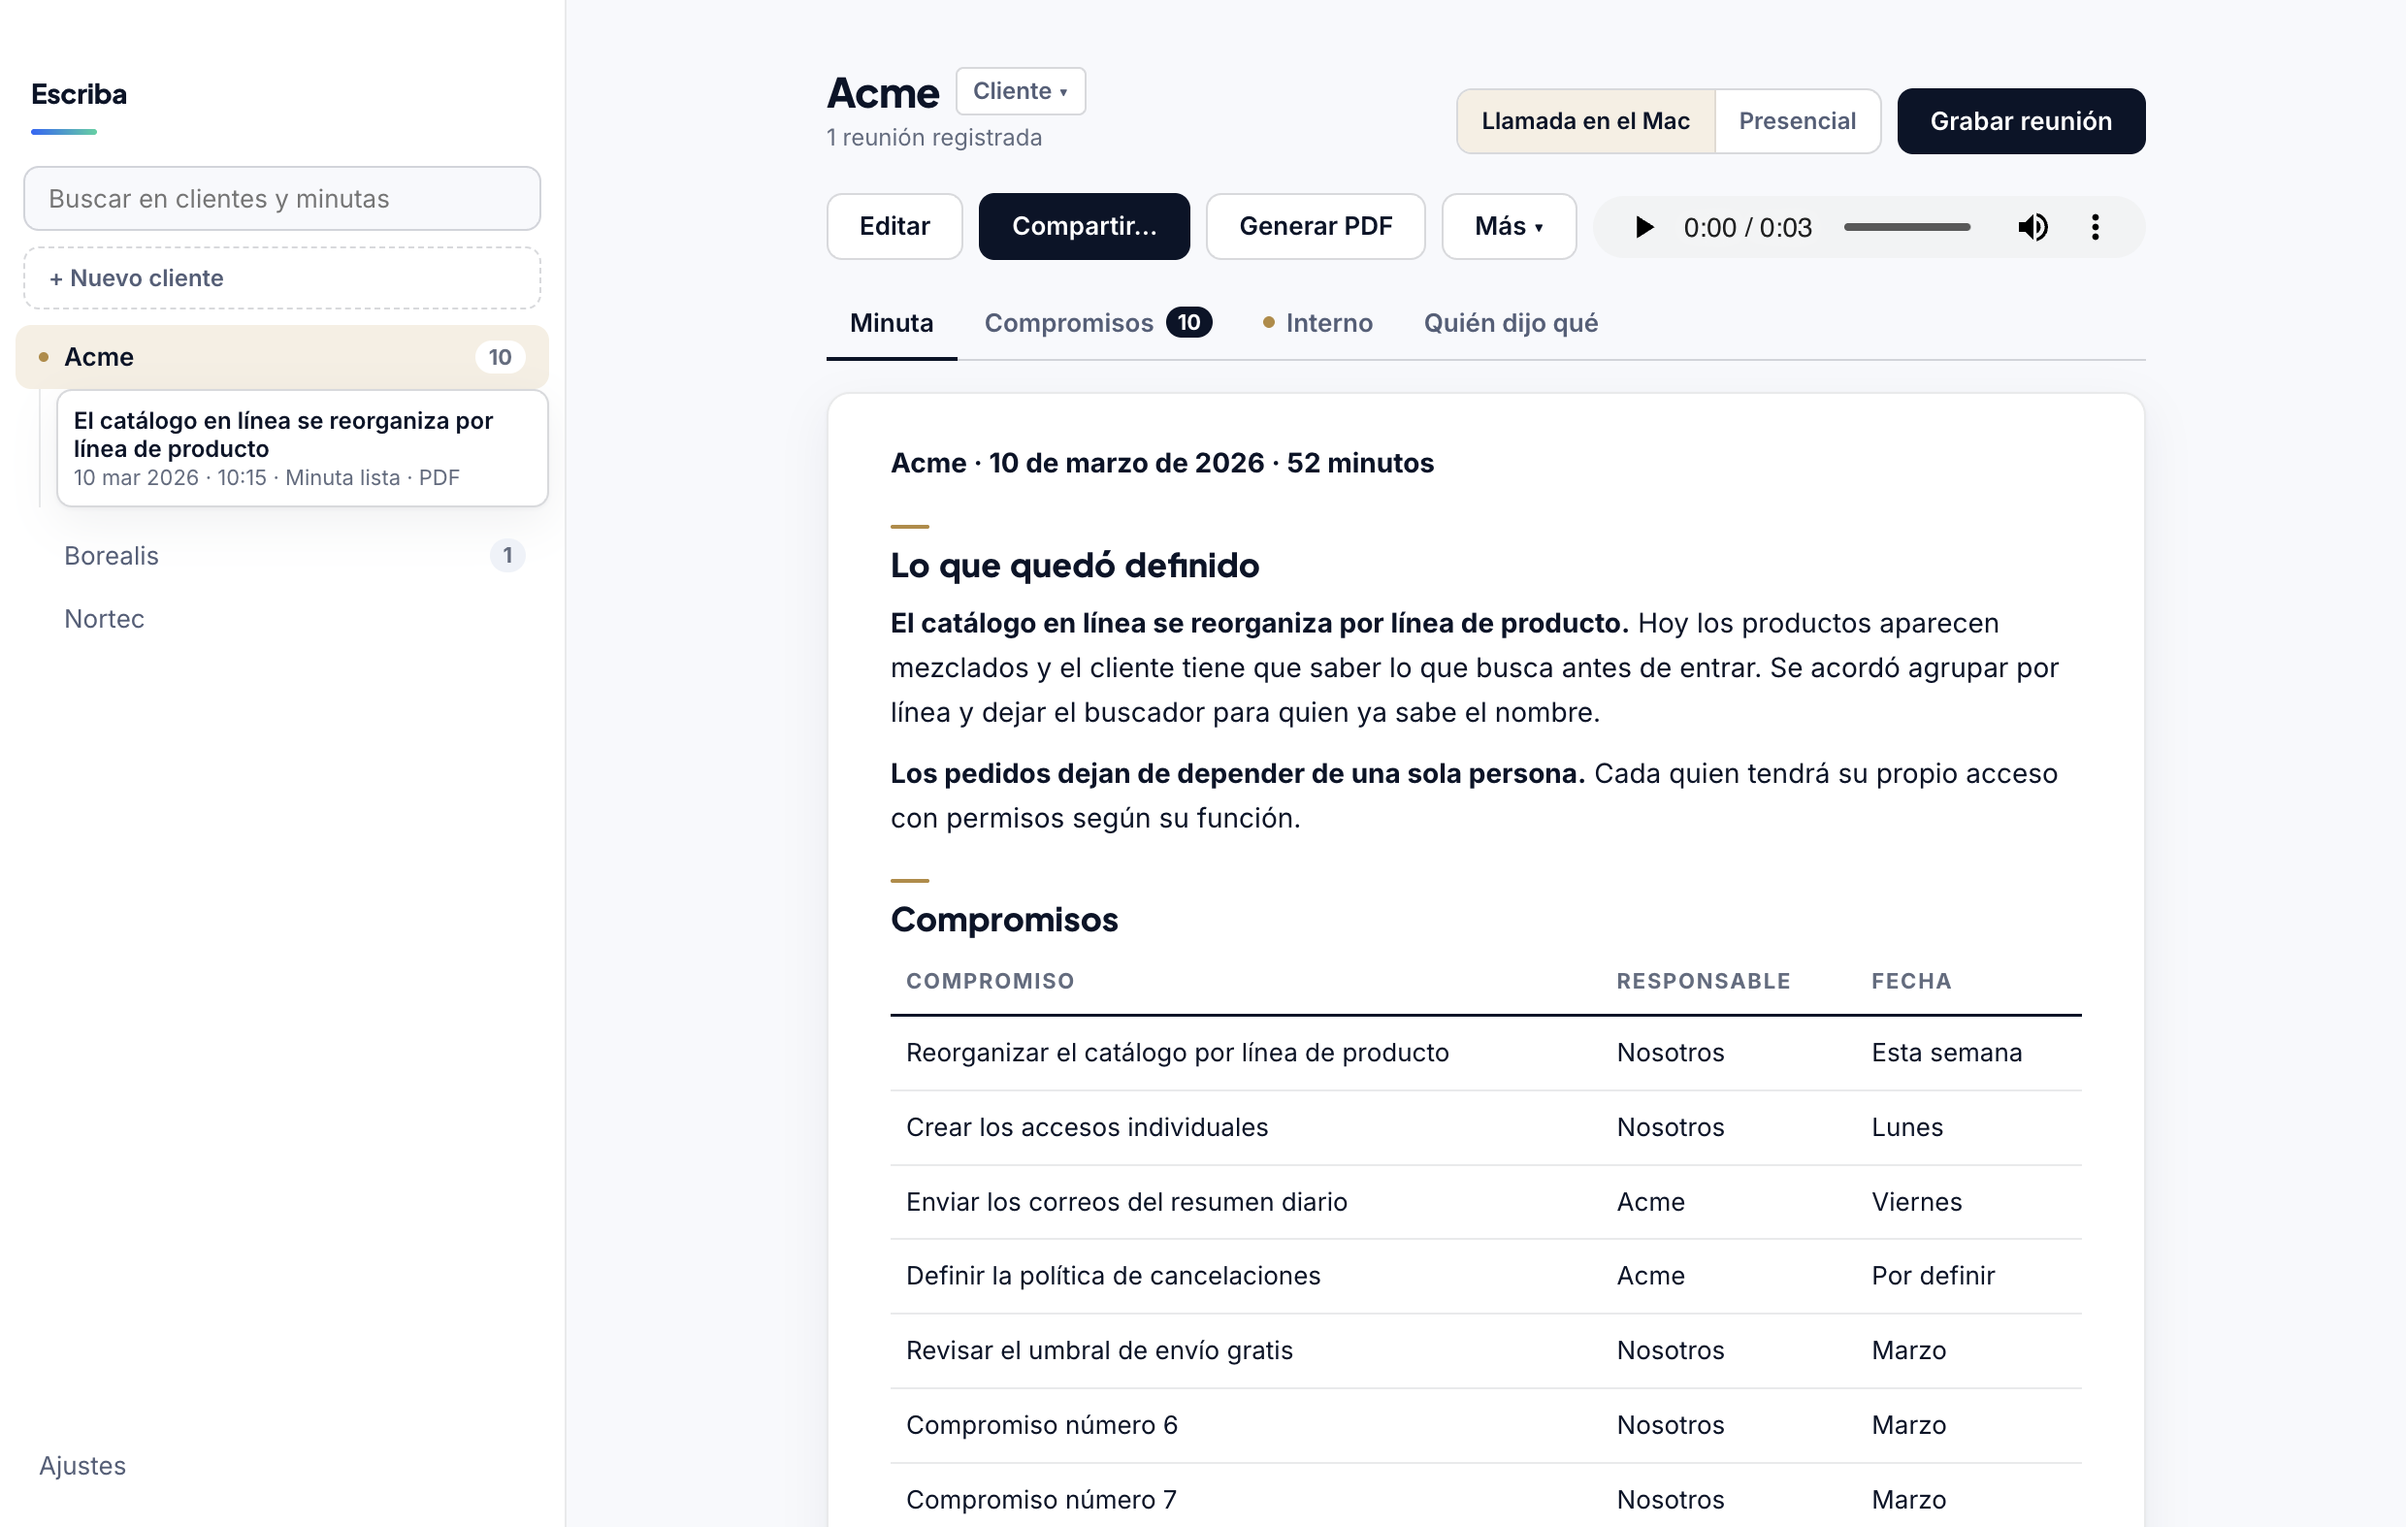
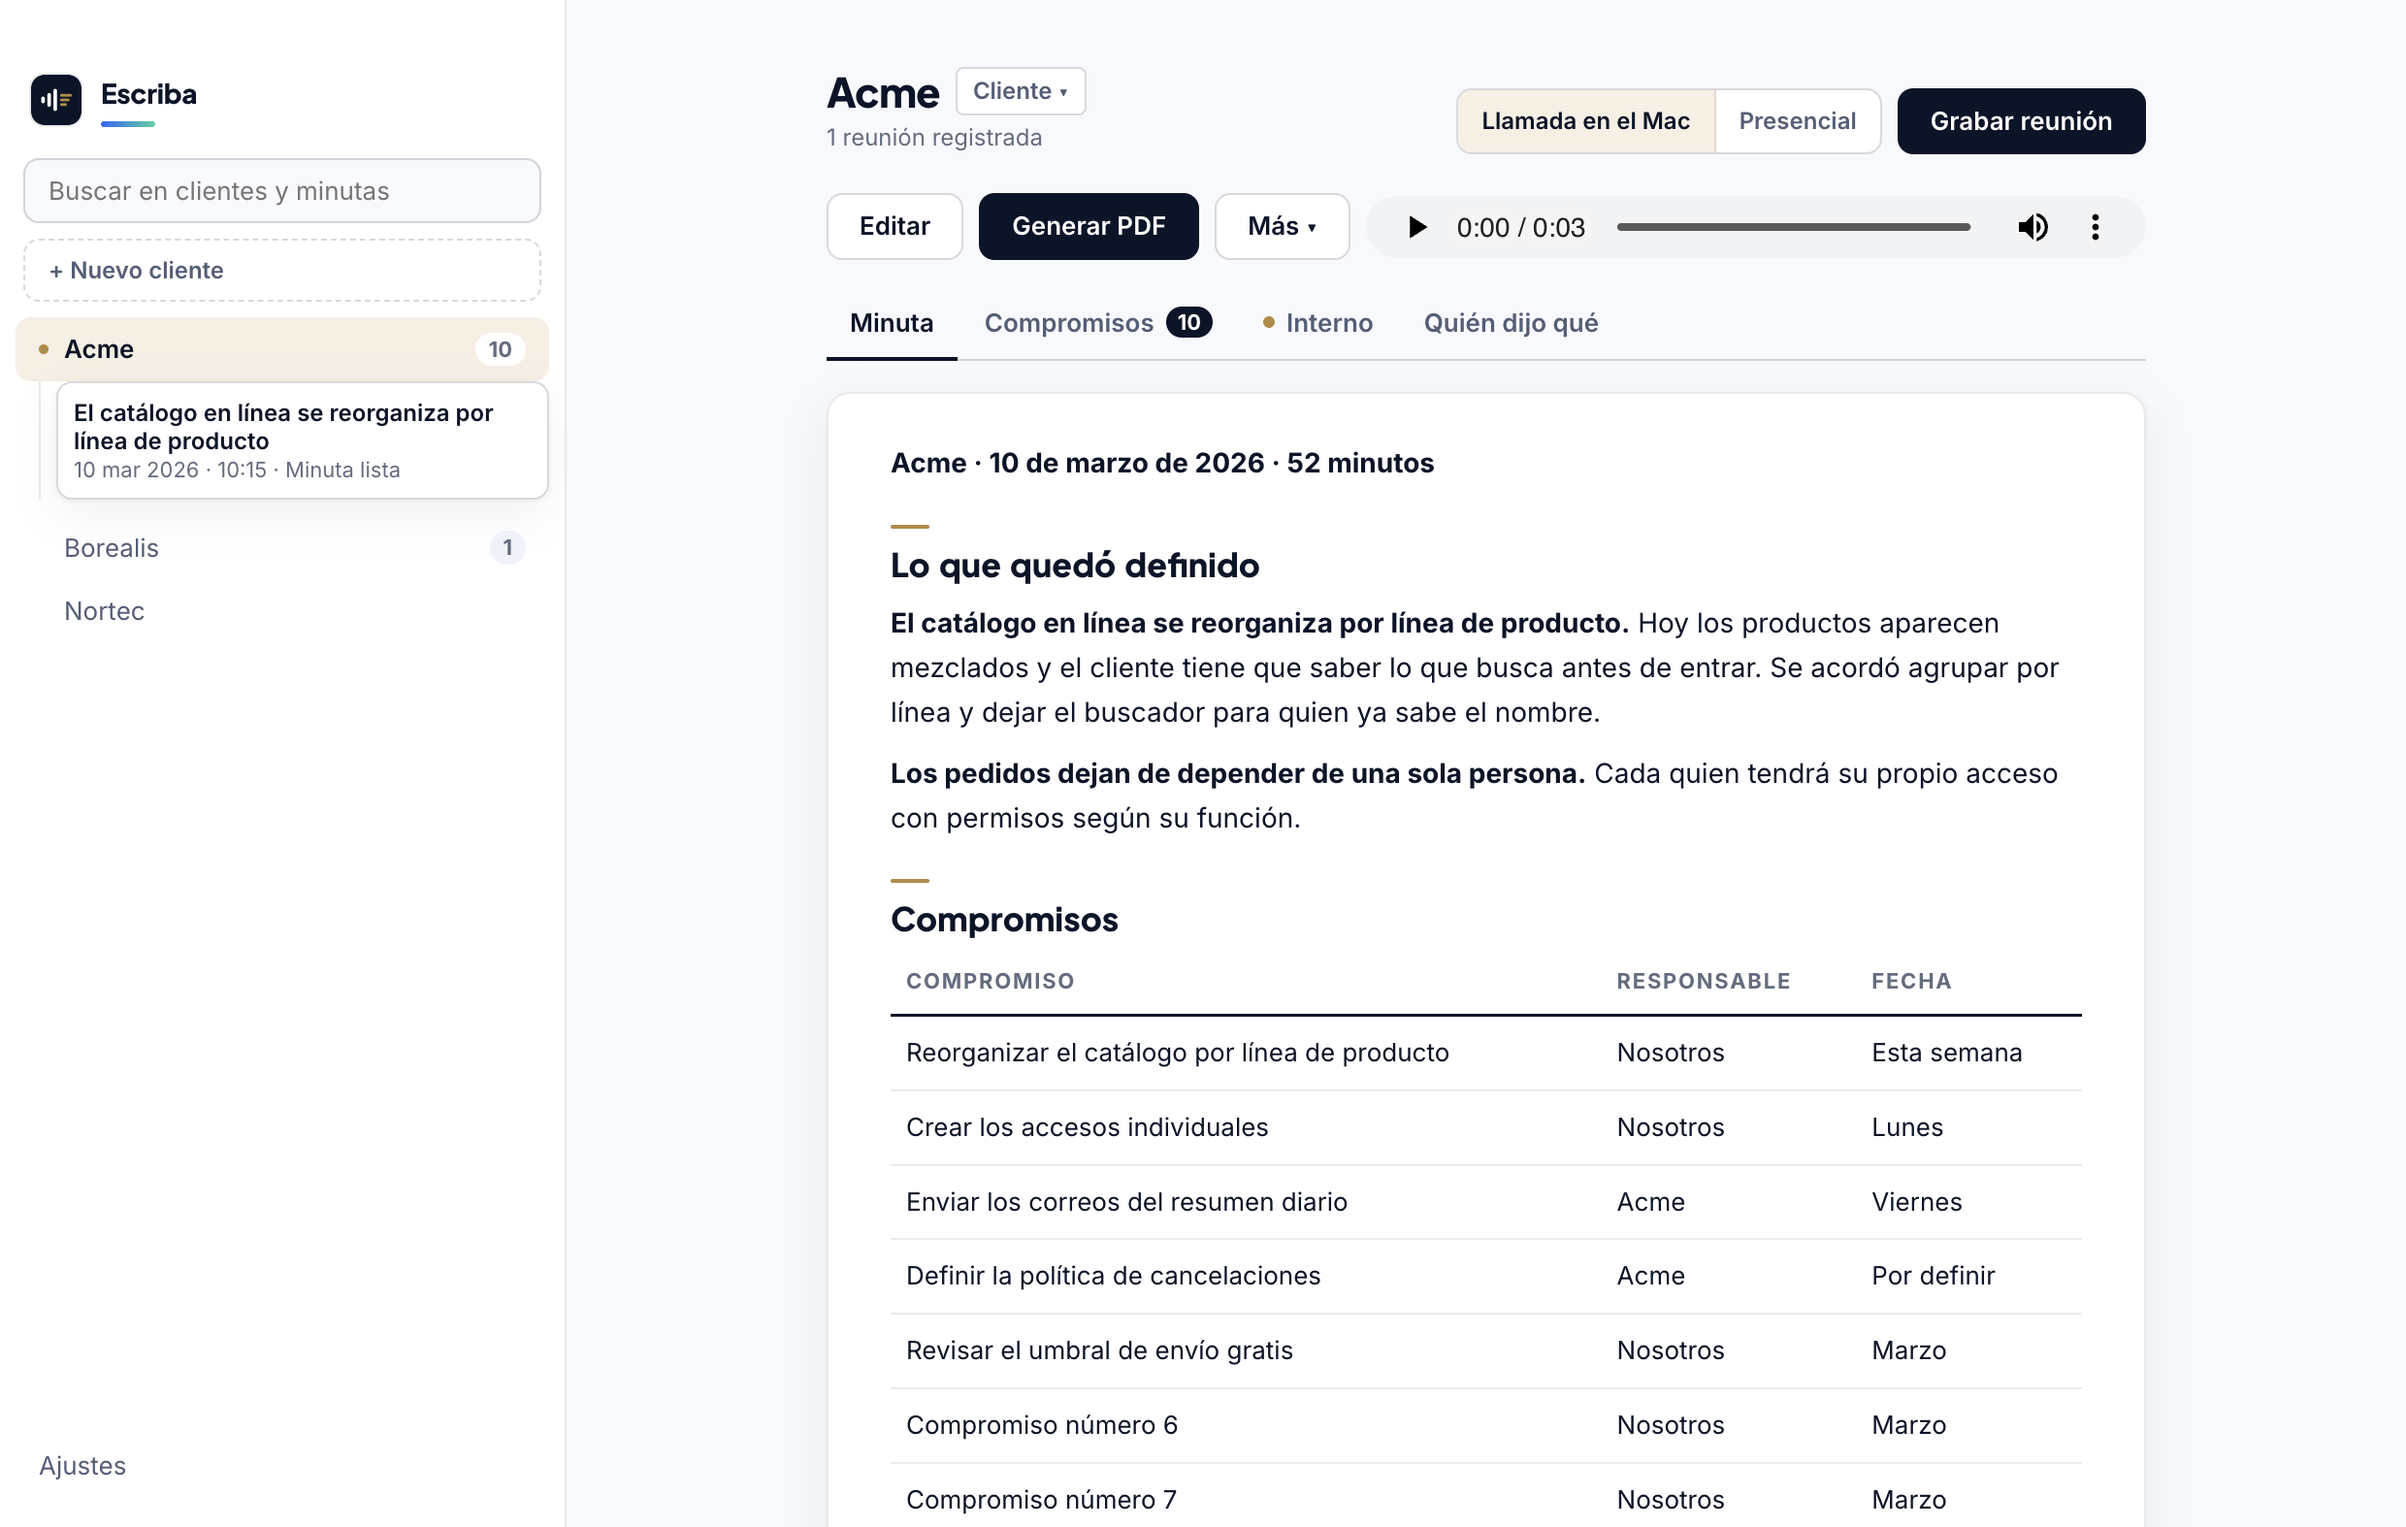
0.8.1: el glifo del icono junto al nombre, arriba a la izquierda

Changed region(s): [[0.0, 0.0311, 0.2173, 0.4047], [0.4347, 0.1245, 0.7762, 0.1557]]

diff --git a/renderer/estilos.css b/renderer/estilos.css
@@ -119,9 +119,11 @@ kbd{font-family:inherit;font-size:var(--t-11);background:var(--tint2);border:1px
 
 /* ---------- barra lateral ---------- */
 .lateral{background:var(--paper);border-right:1px solid var(--rule);display:flex;flex-direction:column;overflow:hidden}
-.marca{padding:38px var(--e-4) var(--e-3);-webkit-app-region:drag}   /* 38 arriba: deja libre el semáforo de la ventana */
+.marca{display:flex;align-items:center;gap:10px;padding:38px var(--e-4) var(--e-3);-webkit-app-region:drag}   /* 38 arriba: deja libre el semáforo de la ventana */
+/* El glifo del icono junto al nombre: el Dock y la ventana no compartían marca. */
+.marca-logo{width:26px;height:26px;flex:none;border-radius:7px;box-shadow:0 0 0 1px var(--rule)}
 .marca h1{font-family:var(--fuente-titulo);font-size:var(--t-14);font-weight:800;letter-spacing:-.01em;word-spacing:.06em}
-.marca-linea{height:3px;width:34px;background:linear-gradient(90deg,var(--azul),var(--verde));border-radius:2px;margin-top:var(--e-2)}
+.marca-linea{height:3px;width:28px;background:linear-gradient(90deg,var(--azul),var(--verde));border-radius:2px;margin-top:var(--e-1)}
 .buscar{margin:var(--e-1) var(--e-3) var(--e-2)}
 .buscar input{width:100%;padding:var(--e-2) var(--e-3);border:1px solid var(--rule-fuerte);border-radius:var(--r-2);background:var(--tint);outline:none}
 .buscar input:focus{border-color:var(--azul);background:var(--paper)}

diff --git a/renderer/index.html b/renderer/index.html
@@ -9,8 +9,20 @@
 <div class="app">
   <aside class="lateral">
     <div class="marca">
-      <h1>Escriba</h1>
-      <div class="marca-linea"></div>
+      <!-- el mismo glifo del icono (build/marca/icono.html): voz → texto -->
+      <svg class="marca-logo" viewBox="0 0 64 64" aria-hidden="true" focusable="false">
+        <rect width="64" height="64" rx="16" fill="#0A1428"/>
+        <rect x="13"   y="27.8"  width="4.5" height="8.4"  rx="2.25" fill="#fff"/>
+        <rect x="20.7" y="23.25" width="4.5" height="17.5" rx="2.25" fill="#fff"/>
+        <rect x="28.4" y="18"    width="4.5" height="28"   rx="2.25" fill="#fff"/>
+        <rect x="36.9" y="24.35" width="15"  height="3.5"  rx="1.75" fill="#B58A3E"/>
+        <rect x="36.9" y="30.25" width="12"  height="3.5"  rx="1.75" fill="#B58A3E"/>
+        <rect x="36.9" y="36.15" width="8.5" height="3.5"  rx="1.75" fill="#B58A3E"/>
+      </svg>
+      <div>
+        <h1>Escriba</h1>
+        <div class="marca-linea"></div>
+      </div>
     </div>
     <div class="buscar"><input id="q" type="search" placeholder="Buscar en clientes y minutas" title="Un cliente por nombre, o cualquier cosa que se haya dicho en una reunión (⌘F)" autocomplete="off"></div>
     <button class="nuevo-cli" id="btnNuevoCliente" title="Crear un cliente (⌘N)">+ Nuevo cliente</button>

diff --git a/CHANGELOG.md b/CHANGELOG.md
@@ -1,5 +1,12 @@
 # Changelog
 
+## 0.8.1 — 2026-08-22
+
+- **El logo, dentro de la app.** El glifo del icono (voz → texto) va ahora junto
+  al nombre, arriba a la izquierda: el Dock y la ventana no compartían marca.
+  Es el mismo dibujo de `build/marca/icono.html`, como SVG en línea, y se ve
+  igual en claro y en oscuro.
+
 ## 0.8.0 — 2026-08-22
 
 Una ronda de usabilidad y diseño. Empezó capturando cada estado de la app en
